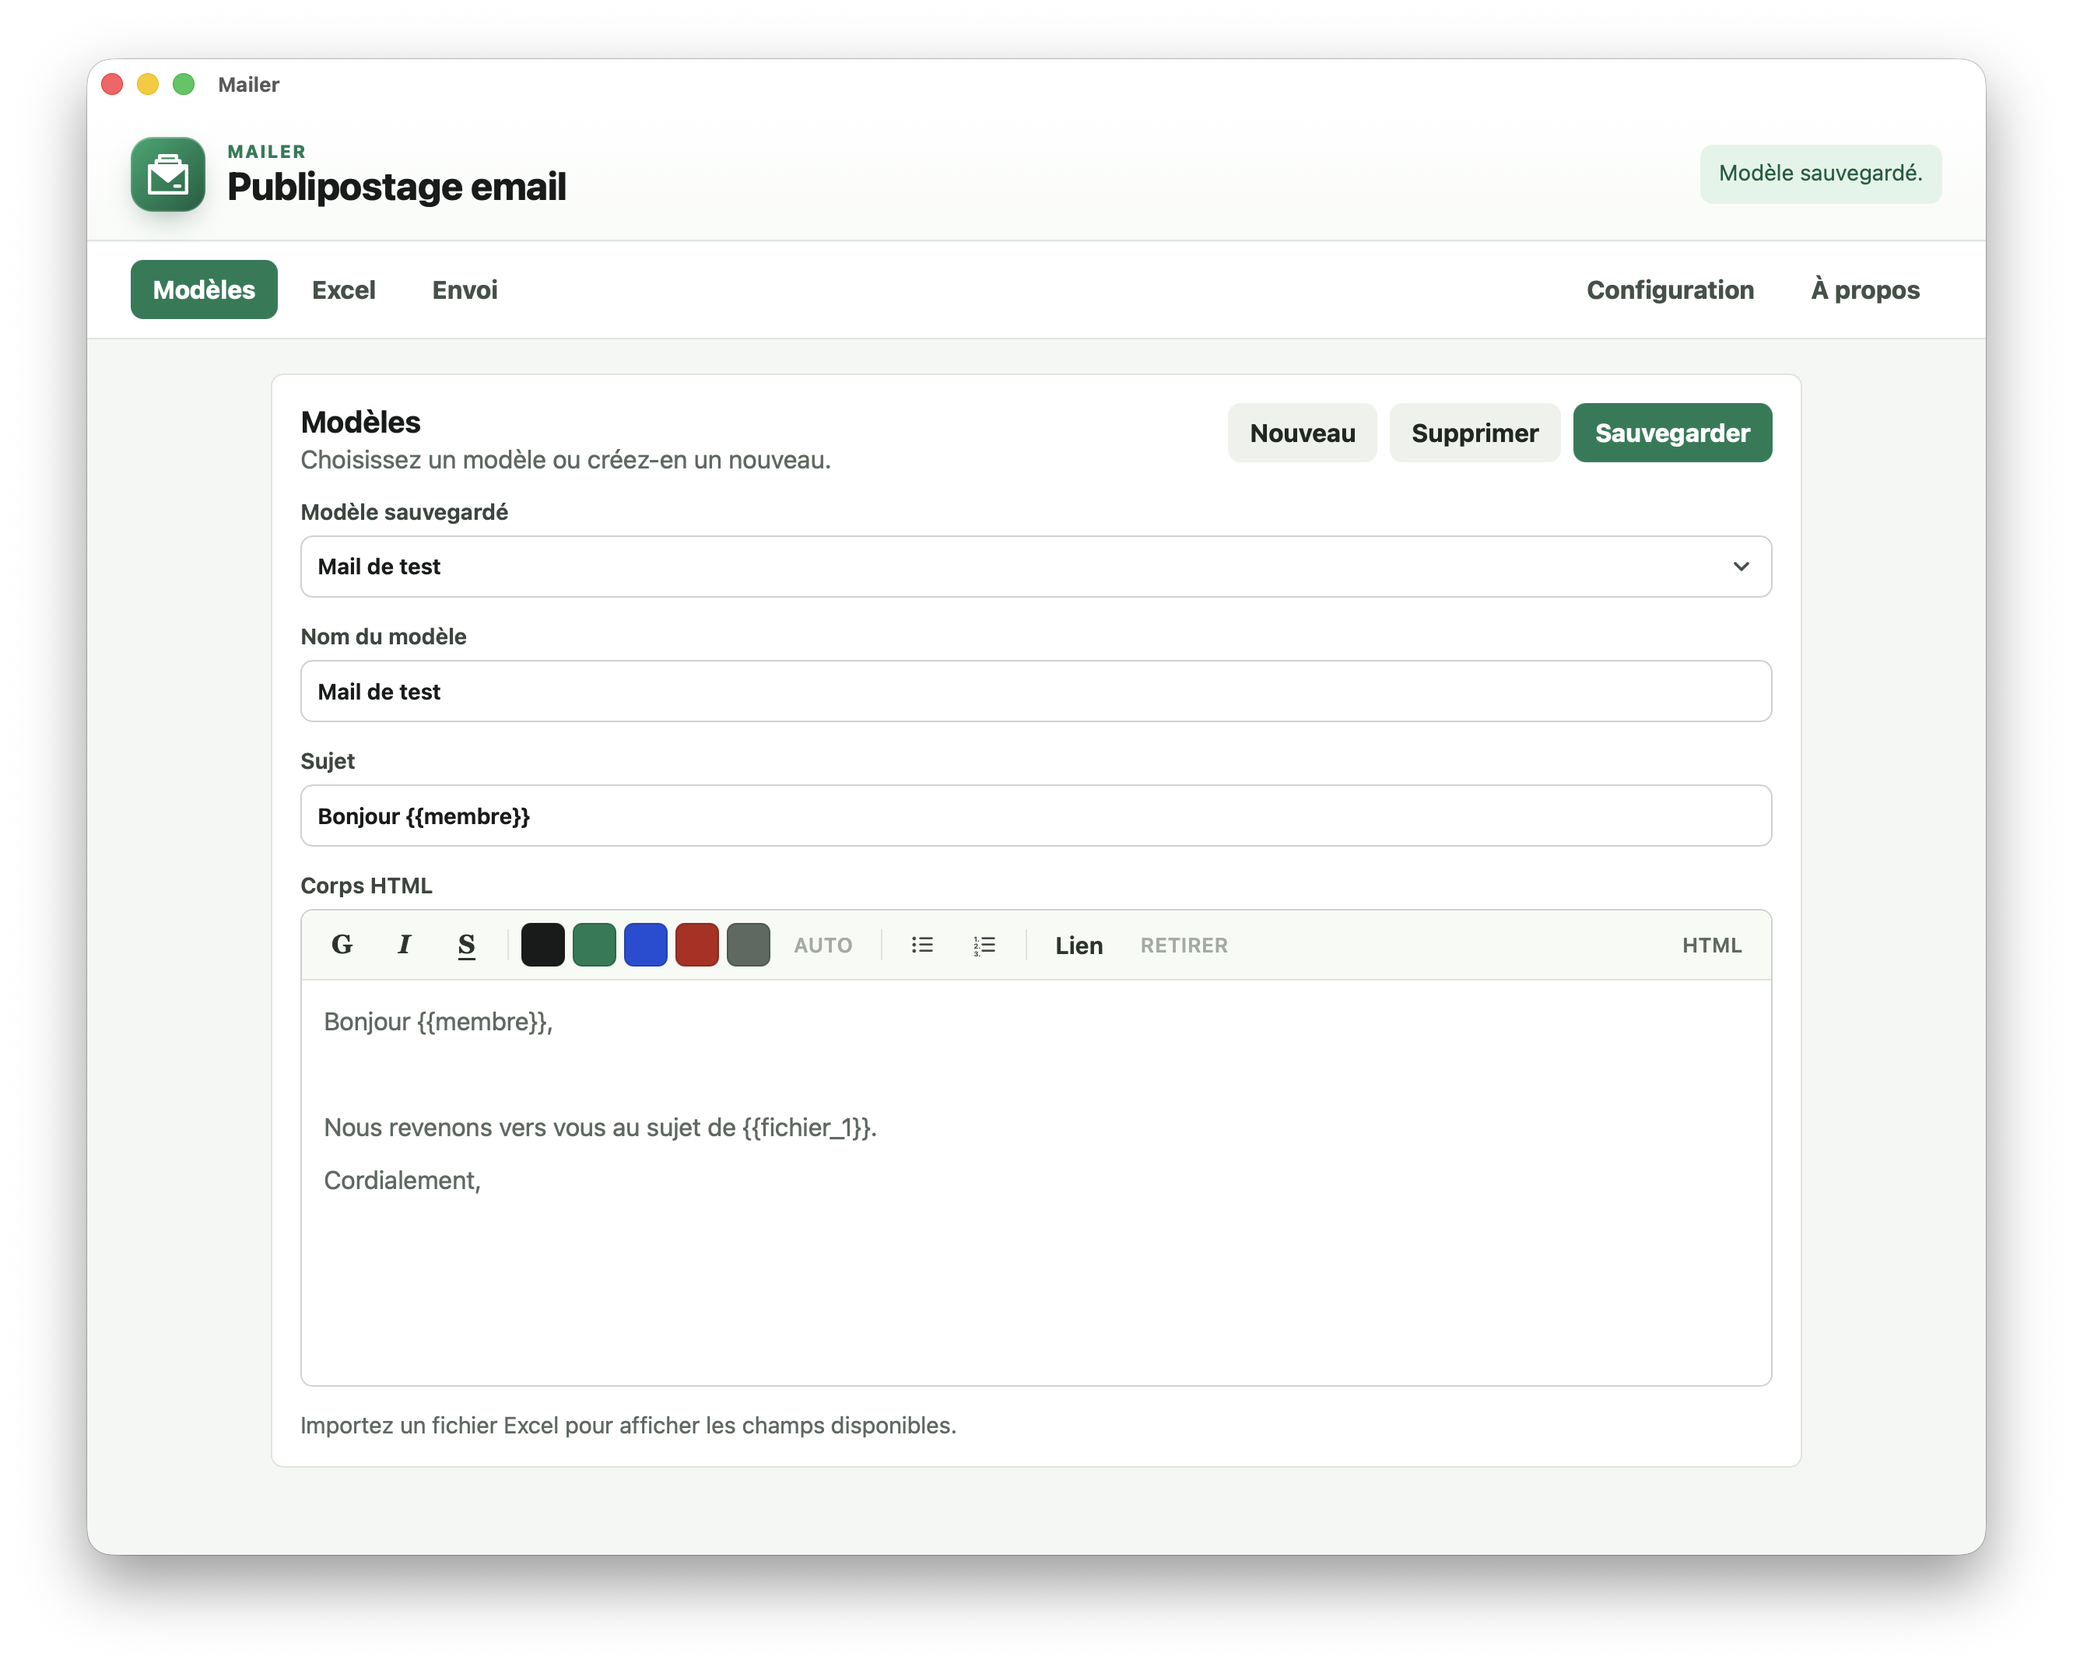
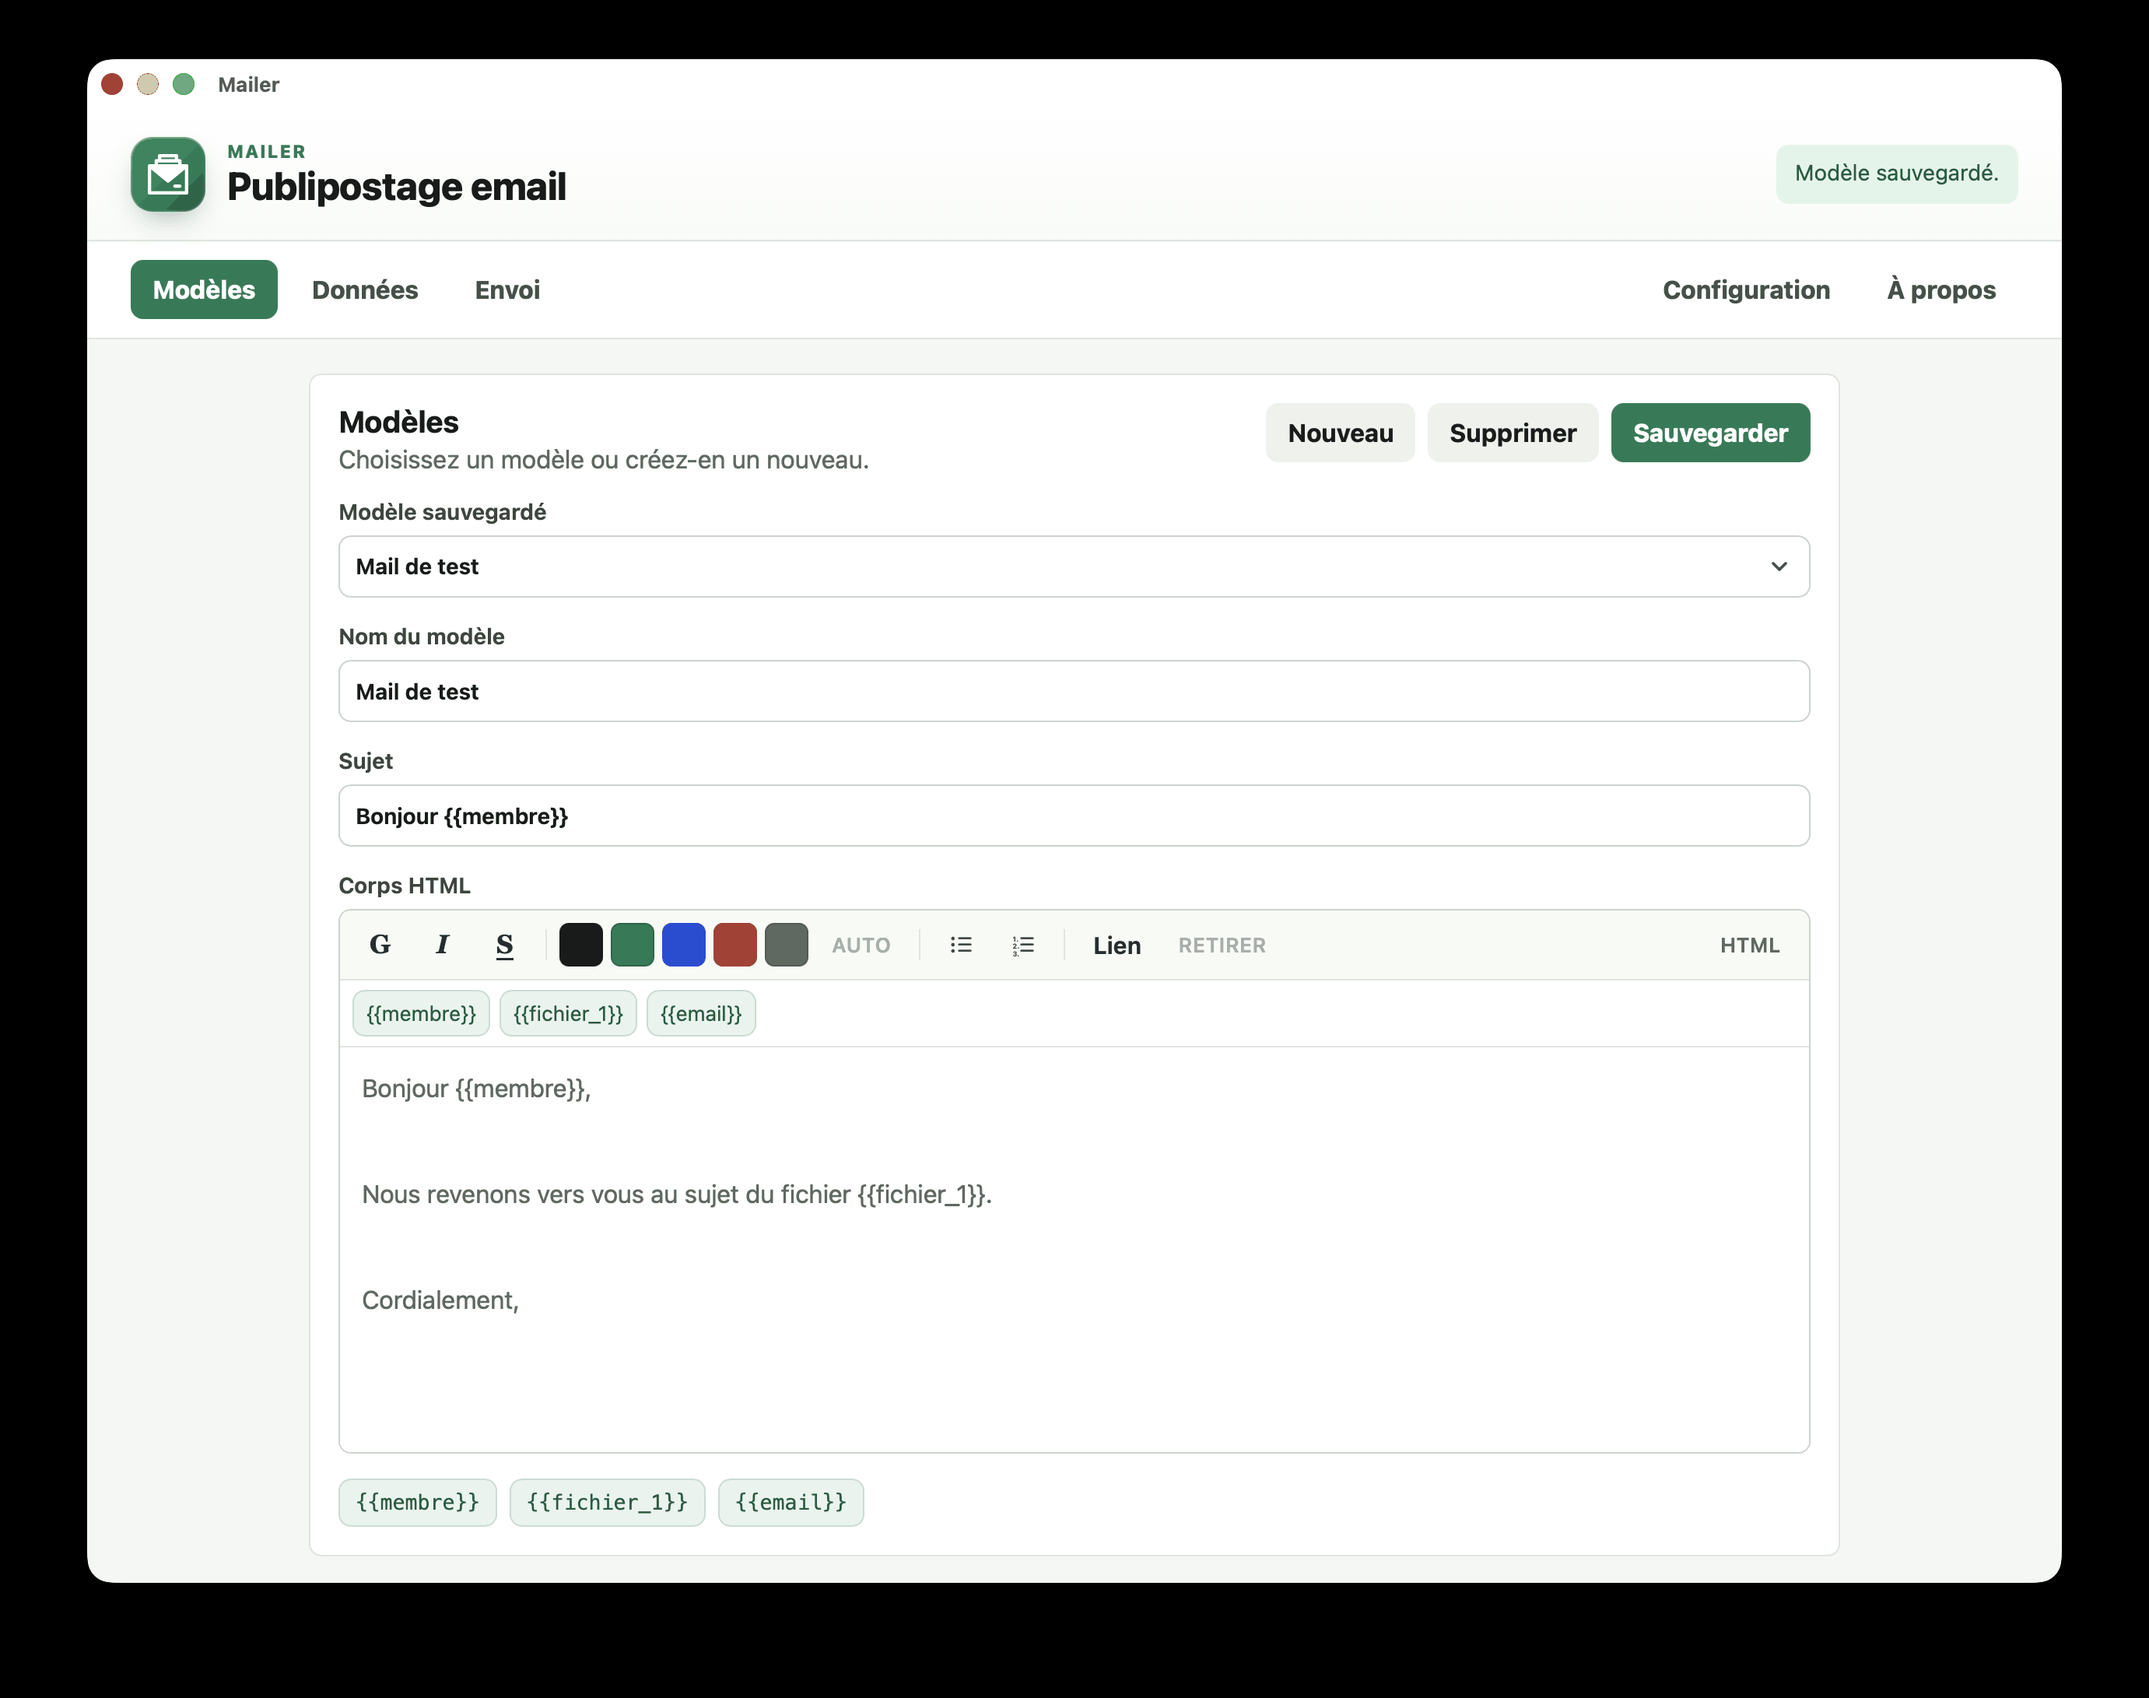
fix: update terminology from "Excel" to "Données" for clarity in the application

diff --git a/src/App.tsx b/src/App.tsx
@@ -61,7 +61,7 @@ type PanelId = "templates" | "excel" | "configuration" | "send" | "about";
 
 const panels: Array<{ id: PanelId; label: string }> = [
   { id: "templates", label: "Modèles" },
-  { id: "excel", label: "Excel" },
+  { id: "excel", label: "Données" },
   { id: "send", label: "Envoi" },
   { id: "configuration", label: "Configuration" },
   { id: "about", label: "À propos" },
@@ -540,11 +540,11 @@ function App() {
           <section className="panel">
             <div className="panel-heading">
               <div>
-                <h2>Excel</h2>
+                <h2>Données</h2>
                 <p>La première ligne doit contenir les noms de colonnes.</p>
               </div>
               <button type="button" className="primary" onClick={handlePickExcel} disabled={busy}>
-                Importer Excel
+                Importer un fichier
               </button>
             </div>
 
@@ -773,7 +773,7 @@ function App() {
 
             <div className="status-row">
               <span>{selectedTemplate ? selectedTemplate.name : "Modèle non sauvegardé"}</span>
-              <span>{workbook ? workbook.fileName : "Aucun Excel"}</span>
+              <span>{workbook ? workbook.fileName : "Aucune donnée"}</span>
               <span>{smtp.host || "SMTP non configuré"}</span>
             </div>
 

diff --git a/README.md b/README.md
@@ -48,7 +48,7 @@ npm run desktop:release
 ## Utilisation
 
 1. **Modèles** — créer un modèle avec sujet et corps HTML. L'éditeur propose gras / italique / souligné, listes, insertion de lien (http/https/mailto uniquement), et un mode source HTML.
-2. **Excel** — importer le fichier. La première ligne sert d'en-têtes; les colonnes deviennent des placeholders Handlebars (`{{prenom}}`, `{{societe}}`, ...).
+2. **Données** — importer le fichier Excel. La première ligne sert d'en-têtes; les colonnes deviennent des placeholders Handlebars (`{{prenom}}`, `{{societe}}`, ...).
 3. **Configuration** — renseigner SMTP (serveur, port, sécurité, identifiant, expéditeur). Le mot de passe est écrit dans le trousseau système (macOS Keychain, Windows Credential Manager, Linux Secret Service) et jamais dans le JSON local. Régler la temporisation: maximum par minute, pause minimale, taille de lot et pause entre lots.
 4. **Envoi** — prévisualiser sur des lignes réelles, puis cliquer *Envoyer*. Une confirmation s'affiche avant d'envoyer. Pendant l'exécution, une barre de progression en direct et un bouton *Annuler l'envoi* permettent de reprendre la main.
 
